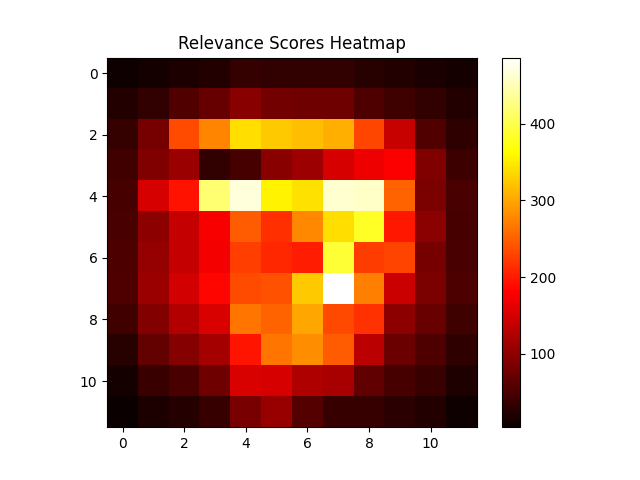
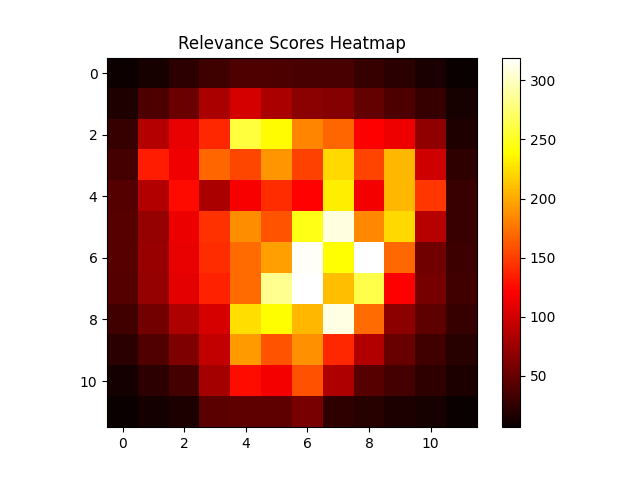
graph from conv2 layer

diff --git a/main.py b/main.py
@@ -13,20 +13,28 @@ import torch
 import matplotlib.pyplot as plt
 import numpy as np
 
-def visualize_relevance_scores(model, input_data):
-    # Applying LRP and visualizing the relevance scores for each of the 16 feature maps
+def visualize_relevance_scores(model, input_data, filename="relevabce_score.png"):
+    # if relevance_scores.size(1) != 16:
+    #     raise ValueError(f"Expected 16 feature maps, got {relevance_scores.size(1)}")
+    # Apply LRP first to get the relevance scores
     relevance_scores = apply_lrp_to_last_conv_layer(model, input_data)
-    fig, axes = plt.subplots(4, 4, figsize=(12, 12))
-    for i, ax in enumerate(axes.flat):
-        if i < relevance_scores.size(1):
-            heatmap = relevance_scores[0, i].detach().cpu().numpy()
+
+    # Assuming relevance_scores have the correct shape [batch_size, num_filters, height, width]
+    num_filters = relevance_scores.size(1)
+    fig, axs = plt.subplots(nrows=4, ncols=4, figsize=(12, 12))  # Assuming you want to visualize 16 filters
+    for i, ax in enumerate(axs.flat):
+        if i < num_filters:
+            heatmap = relevance_scores[0, i].detach().cpu().numpy()  # Get the first batch's i-th filter
             im = ax.imshow(heatmap, cmap='hot', interpolation='nearest')
             ax.set_title(f'Feature Map {i+1}')
             ax.axis('off')
-    plt.colorbar(im, ax=axes.ravel().tolist(), orientation='horizontal')
+    plt.colorbar(im, ax=axs.ravel().tolist(), orientation='horizontal')
     plt.suptitle('Relevance Scores for 16 Feature Maps in the Last Conv Layer')
-    plt.savefig('relevance_scores_feature_maps.png')
-    plt.close()
+    plt.savefig(filename)
+    plt.close()  # Close the figure to free up memory
+    print(f"Plot saved as {filename}")
+
+
     
 
 
@@ -159,6 +167,37 @@ if __name__ == "__main__":
 
     # agregated relavance plot
     aggregate_and_plot_relevance(relevance_scores)
+    
+    
+    import torch
+    import matplotlib.pyplot as plt
+
+    # Attach a hook
+    activation = {}
+    def get_activation(name):
+        def hook(model, input, output):
+            activation[name] = output.detach()
+        return hook
+
+    # Example of attaching hooks to both convolutional layers
+    model.conv1.register_forward_hook(get_activation('conv1'))
+    model.conv2.register_forward_hook(get_activation('conv2'))
+
+    # Forward pass
+    output = model(images)
+
+    # Accessing the saved activations
+    conv1_feature_maps = activation['conv1']
+    conv2_feature_maps = activation['conv2']
+
+    # Visualizing feature maps of conv1
+    fig, axarr = plt.subplots(min(4, conv1_feature_maps.shape[1]), figsize=(20, 20))
+    for idx in range(min(4, conv1_feature_maps.shape[1])):  # Visualize first 4 feature maps
+        axarr[idx].imshow(conv1_feature_maps[0, idx].cpu().numpy(), cmap='gray')
+        axarr[idx].set_title(f'Feature Map {idx+1}')
+        axarr[idx].axis('off')
+    plt.show()
+
 
 
 

diff --git a/lrp.py b/lrp.py
@@ -45,6 +45,7 @@ class LRPConv2d(nn.Module):
         return self.conv(input)
 
     def relprop(self, R):
+        print(f"Input Relevance Shape: {R.shape}")
         # For simplicity, use weight positivity and a simple redistribution rule as an example.
         # This should be adapted based on the specific LRP rules and scenarios.
         weight = torch.clamp(self.conv.weight, min=0)
@@ -77,22 +78,21 @@ class LRPConv2d(nn.Module):
         C = F.conv_transpose2d(S, weight, stride=self.conv.stride, padding=self.conv.padding)
         return self.last_input * C
 
-
 def apply_lrp_to_last_conv_layer(model, input_data):
-    # Complete the forward pass to get outputs.
     output = model(input_data)
     _, target_class = torch.max(output, dim=1)
     R = torch.zeros_like(output)
     R[torch.arange(input_data.shape[0]), target_class] = output[torch.arange(input_data.shape[0]), target_class]
     
-    # Start relevance propagation from the last to the first layer that is necessary for visualization.
+    # Start relevance propagation from the output back to the first relevant layer
     for layer in reversed(model.get_layers()):
         R = layer.relprop(R)
-        if isinstance(layer, LRPConv2d):  # Assuming you want to stop at the last convolution layer
-            print("Relevance at last conv layer:", R.shape)
+        if layer == model.conv2:
+            print(f"Relevance at Conv2 layer: {R.shape}")
             break
-
     return R
+
+
 
 
 

diff --git a/lenet_model.py b/lenet_model.py
@@ -6,9 +6,8 @@ from lrp import *
 class LeNet5(nn.Module):
     def __init__(self):
         super(LeNet5, self).__init__()
-        # Define layers with custom LRP implementations
         self.conv1 = LRPConv2d(1, 6, kernel_size=5, stride=1, padding=0)
-        self.conv2 = LRPConv2d(6, 16, kernel_size=5, stride=1, padding=0)
+        self.conv2 = LRPConv2d(6, 16, kernel_size=5, stride=1, padding=0) 
         self.fc1 = LRPLinear(16 * 4 * 4, 120)
         self.fc2 = LRPLinear(120, 84)
         self.fc3 = LRPLinear(84, 10)
@@ -21,9 +20,9 @@ class LeNet5(nn.Module):
 
     def forward(self, x):
             x = F.max_pool2d(F.relu(self.conv1(x)), 2)
-            # print("After conv1:", x.shape)  # Debugging output
+            print("After conv1:", x.shape)  # Debugging output
             x = F.max_pool2d(F.relu(self.conv2(x)), 2)
-            # print("After conv2 (last_conv_layer):", x.shape)  # Critical to check the last conv layer output
+            print("After conv2 (last_conv_layer):", x.shape)  # Critical to check the last conv layer output
             self.last_conv_output = x.detach()
             # Continue through FC layers
             x = torch.flatten(x, 1)
